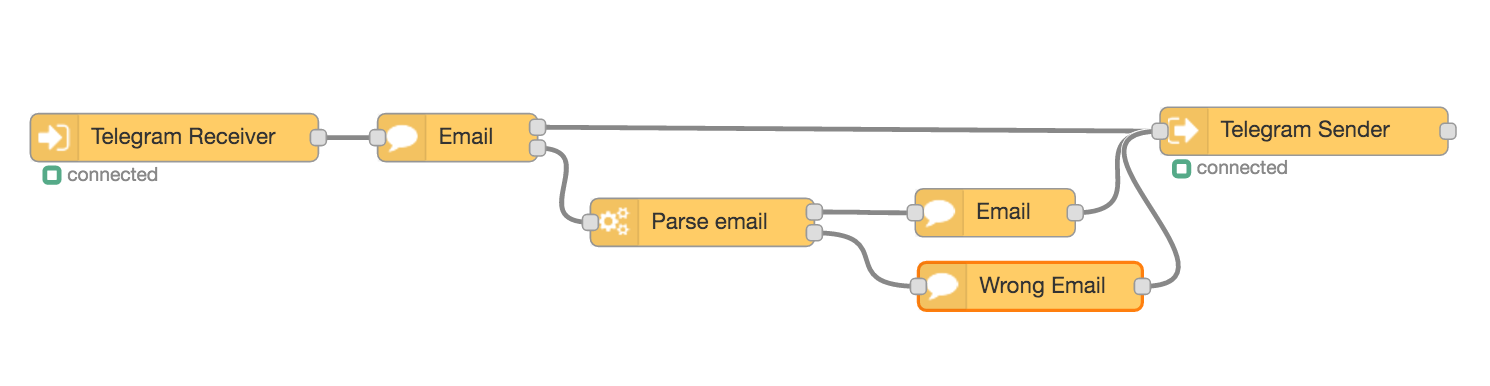
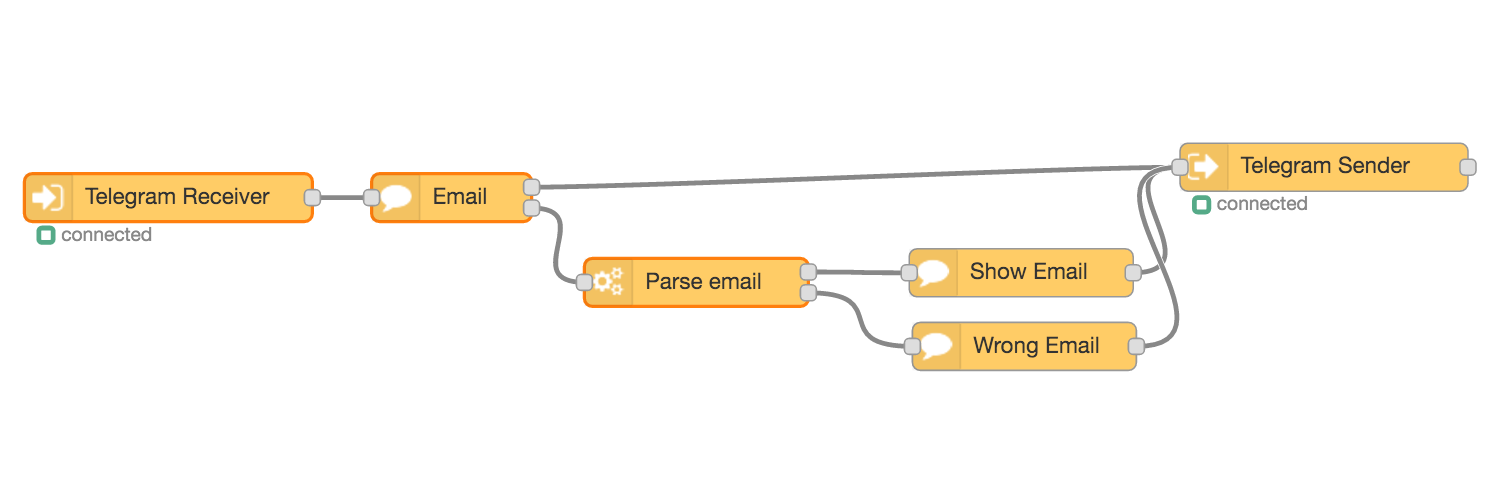
first example

Changed region(s): [[0.0, 0.2487, 0.9879, 0.8083]]

diff --git a/README.md b/README.md
@@ -20,10 +20,23 @@ Build a full featured chat bot with Node Red and Telegram
 tbd
 
 ## Examples
-Some examples
+Here are some examples connecting the ChatBot blocks
+
 ### Collect Email
 ![Example Collect Email](./docs/images/example-collect-email.png)
-An example on parsing user input
+This is an example of how to parse the user input. The first *Email* block after the receiver just show a prompt message, note that this block tracks the user answer, that means that next message from the user will start from here and will be re-routed to the second output to the *Parse Email* block.
+If a valid email is found then the parsed value will be routed to the first output otherwise the second.
+The parsed email is available as payload or can be stored in the flow context,  for example in the `email` variable.
+The **Show Email** is just a simple message block that uses templating to show variables store in flow context (or global): `Your email is {{email}}`
+### Log Chats
+tbd
+### Send Email
+tbd
+### Send a Location
+tbd
+### Buttons
+tbd
+
 
 ## Credits
 tbd
